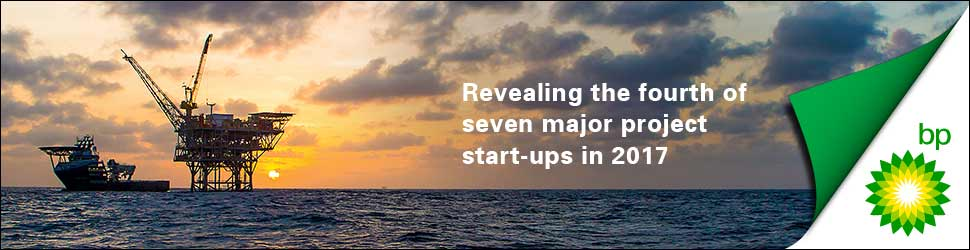
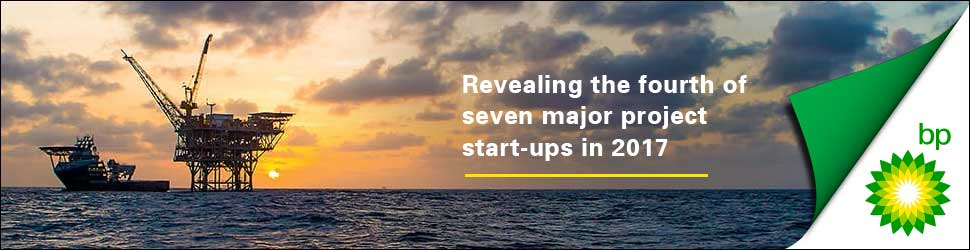
jupier

diff --git a/BP/Jupiter/JRDL_0267_Orchard_Post_BP_300x600/js/script.js b/BP/Jupiter/JRDL_0267_Orchard_Post_BP_300x600/js/script.js
@@ -21,13 +21,13 @@ function initbanner(){
 
 function frame1Anim(){
      tw.to(copy1,1, {alpha:1, ease:Quad.easeIn, delay:0})
-	 // tw.to(mask,3, {width:228, ease: Power4.easeOut, delay:0.5})
+	 tw.to(mask,3, {width:254, ease: Power4.easeOut, delay:0.5})
 	 tw.delayedCall(5,frame2Anim)
 }
 
 function frame2Anim(){
      tw.to(copy1,0.65, {alpha:0, ease:Quad.easeInOut, delay:.6})
-	 // tw.to(mask,2, {width:20, ease: Power4.easeInOut, delay:0})
+	 tw.to(mask,2, {width:17, ease: Power4.easeInOut, delay:0})
 	 
 	 tw.to(copy2,0.65, {alpha:1, ease:Quad.easeInOut, delay:1.5})
 	 tw.to(copy3,0.65, {alpha:1, ease:Quad.easeInOut, delay:1.7})
@@ -37,12 +37,10 @@ function frame2Anim(){
 function frame3Anim(){
 	tw.to([copy2,copy3],0.65, {alpha:0, ease:Quad.easeInOut, delay:0})
 	tw.to(copy4,0.65, {alpha:1, ease:Quad.easeInOut, delay:0.65})
-	// tw.to(mask2,3, {width:228, ease: Power4.easeOut, delay:1})
 	tw.delayedCall(7,frame4Anim)
 }
 
 function frame4Anim(){
-	 // tw.to(mask2,2, {width:18, ease: Power4.easeInOut, delay:0})
 	 tw.to(copy4,0.65, {alpha:0, ease:Quad.easeInOut, delay:0.65})
 	 tw.delayedCall(1.5,frame5Anim)
 }

diff --git a/BP/Jupiter/JRDL_0267_Orchard_Post_BP_970x250/js/script.js b/BP/Jupiter/JRDL_0267_Orchard_Post_BP_970x250/js/script.js
@@ -16,13 +16,13 @@ function initbanner(){
 
 function frame1Anim(){
      tw.to(copy1,1, {alpha:1, ease:Quad.easeIn, delay:0})
-	 // tw.to(mask,3, {width:660, ease: Power4.easeOut, delay:0.5})
+	 tw.to(mask,3, {width:712, ease: Power4.easeOut, delay:0.5})
 	 tw.delayedCall(5,frame2Anim)
 }
 
 function frame2Anim(){
      tw.to(copy1,0.65, {alpha:0, ease:Quad.easeInOut, delay:.6})
-	 // tw.to(mask,2, {width:464, ease: Power4.easeInOut, delay:0})
+	 tw.to(mask,2, {width:464, ease: Power4.easeInOut, delay:0})
 	 
 	 tw.to(copy2,0.65, {alpha:1, ease:Quad.easeInOut, delay:1.5})
 	 tw.to(copy3,0.65, {alpha:1, ease:Quad.easeInOut, delay:1.7})

diff --git a/BP/Jupiter/JRDL_0267_Orchard_Post_BP_300x250/js/script.js b/BP/Jupiter/JRDL_0267_Orchard_Post_BP_300x250/js/script.js
@@ -21,11 +21,13 @@ function initbanner(){
 
 function frame1Anim(){
      tw.to(copy1,1, {alpha:1, ease:Quad.easeIn, delay:0})
+	 tw.to(mask,3, {width:254, ease: Power4.easeOut, delay:0.5})
 	 tw.delayedCall(5,frame2Anim)
 }
 
 function frame2Anim(){
      tw.to(copy1,1, {alpha:0, ease:Quad.easeOut, delay:.6})
+	 tw.to(mask,2, {width:18, ease: Power4.easeInOut, delay:0})
 	 
 	 tw.to(copy2,0.65, {alpha:1, ease:Quad.easeInOut, delay:1.2})
 	 tw.to(copy3,0.65, {alpha:1, ease:Quad.easeInOut, delay:1.4})

diff --git a/BP/Jupiter/JRDL_0267_Orchard_Post_BP_300x600/css/style.css b/BP/Jupiter/JRDL_0267_Orchard_Post_BP_300x600/css/style.css
@@ -68,33 +68,24 @@
 	z-index:3
 }
 
-/*#mask{
+#mask{
 	position: absolute; 
 	top: 0px; 
 	left: 0px;
-	width: 20px; 
+	width: 17px; 
 	height: 600px; 
 	opacity:1;
 	z-index:3;
 	overflow:hidden;
 }
-#mask2{
-	position: absolute; 
-	top: 0px; 
-	left: 0px;
-	width: 18px; 
-	height: 600px; 
-	opacity:1;
-	z-index:3;
-	overflow:hidden;
-}
-#line, #line2{
+
+#line{
 	position: absolute; 
 	top: 0px; 
 	left: 0px;
 	opacity:1;
 	z-index:3
-}*/
+}
 #copy2{
 	position: absolute; 
 	top: 0px; 

diff --git a/BP/Jupiter/JRDL_0267_Orchard_Post_BP_300x600/index.html b/BP/Jupiter/JRDL_0267_Orchard_Post_BP_300x600/index.html
@@ -18,9 +18,9 @@
             <img id="bg" src="images/bg.jpg"/>
             <img id="copy1" src="images/copy1.png"/>
             
-      <!--       <div id="mask">
-             <img id="line" src="images/line.png"/>
-            </div> -->
+            <div id="mask">
+                <img id="line" src="images/line.png"/>
+            </div>
             
         	<img id="flip1" src="images/flip1.png"/>
         	<img id="flip2" src="images/flip2.png"/>

diff --git a/BP/Jupiter/JRDL_0267_Orchard_Post_BP_970x250/index.html b/BP/Jupiter/JRDL_0267_Orchard_Post_BP_970x250/index.html
@@ -18,9 +18,9 @@
                 <img id="bg" src="images/bg.jpg"/>
                 <img id="copy1" src="images/copy1.png"/>
 
-            <!--     <div id="mask">
+                <div id="mask">
                     <img id="line" src="images/line.png"/>
-                </div> -->
+                </div>
 
                 <img id="flip1" src="images/flip1.png"/>
                 <img id="flip2" src="images/flip2.png"/>

diff --git a/BP/Jupiter/JRDL_0267_Orchard_Post_BP_300x250/index.html b/BP/Jupiter/JRDL_0267_Orchard_Post_BP_300x250/index.html
@@ -18,6 +18,10 @@
             <img id="bg" src="images/bg.jpg"/>
             <img id="copy1" src="images/copy1.png"/>
             
+            <div id="mask">
+                <img id="line" src="images/line.png"/>
+            </div>
+            
            	<img id="flip1" src="images/flip1.png"/>
         	<img id="flip2" src="images/flip2.png"/>
         	<img id="flip3" src="images/flip3.png"/>

diff --git a/BP/Jupiter/JRDL_0267_Orchard_Post_BP_970x250/css/style.css b/BP/Jupiter/JRDL_0267_Orchard_Post_BP_970x250/css/style.css
@@ -68,7 +68,7 @@
 	z-index:3
 }
 
-/*#mask{
+#mask{
 	position: absolute; 
 	top: 0px; 
 	left: 0px;
@@ -88,13 +88,15 @@
 	z-index:3;
 	overflow:hidden;
 }
+
+
 #line, #line2{
 	position: absolute; 
 	top: 0px; 
 	left: 0px;
 	opacity:1;
 	z-index:3
-}*/
+}
 #copy2{
 	position: absolute; 
 	top: 0px; 

diff --git a/BP/Jupiter/JRDL_0267_Orchard_Post_BP_300x250/css/style.css b/BP/Jupiter/JRDL_0267_Orchard_Post_BP_300x250/css/style.css
@@ -49,7 +49,24 @@
 	z-index:2
 }
 
+#mask{
+	position: absolute; 
+	top: 0px; 
+	left: 0px;
+	width: 18px; 
+	height: 250px; 
+	opacity:1;
+	z-index:3;
+	overflow:hidden;
+}
 
+#line{
+	position: absolute; 
+	top: 0px; 
+	left: 0px;
+	opacity:1;
+	z-index:3
+}
 
 
 #copy1{
